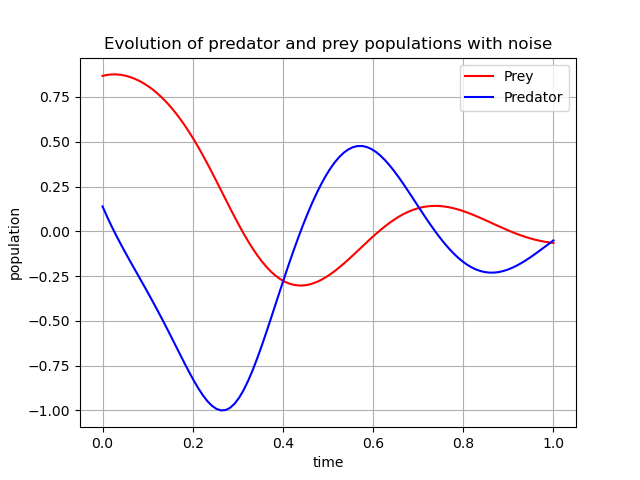
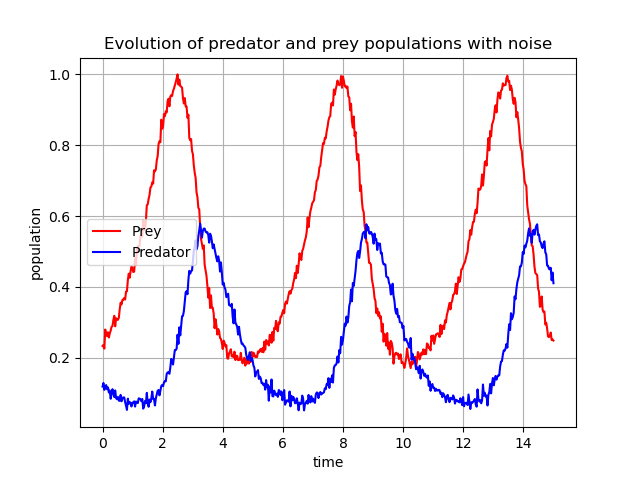
Working LV

diff --git a/lotka_volterra.py b/lotka_volterra.py
@@ -9,6 +9,7 @@ from deepymod.model.func_approx import NN
 from deepymod.model.constraint import LeastSquares
 from deepymod.model.sparse_estimators import Threshold, PDEFIND
 from deepymod.training.sparsity_scheduler import TrainTestPeriodic
+from deepymod.model.library import Library1D
 from scipy.io import loadmat
 
 # custom train loop
@@ -32,33 +33,33 @@ a = 1.
 b = 0.1
 c = 1.5
 d = 0.75
-# def dU_dt(U, t=0):
-#     """ Return the growth rate of predator and prey populations. 
-#     U: [x, y] population vector
-#     """
-#     return np.array([ a*U[0] -   b*U[0]*U[1] ,
-#                   -c*U[1] + d*b*U[0]*U[1] ])
-# t = np.linspace(0, 15,  1000)              # time
-# U0 = np.array([10, 5])                     # initials conditions: 10 prey and 5 predator
-# U = odeint(dU_dt, U0, t)
-
-def dU_dt(U, t):
-    return [U[1], -1*U[1] - 5*np.sin(U[0])]
-U0 = [2.5, 0.4]
-
-t = np.linspace(0, 5,  100)              # time
+def dU_dt(U, t=0):
+    """ Return the growth rate of predator and prey populations. 
+    U: [x, y] population vector
+    """
+    return np.array([ a*U[0] -   b*U[0]*U[1] ,
+                  -c*U[1] + d*b*U[0]*U[1] ])
+t = np.linspace(0, 15,  500)              # time
+U0 = np.array([10, 5])                     # initials conditions: 10 prey and 5 predator
 U = odeint(dU_dt, U0, t)
+
+# def dU_dt(U, t):
+#     return [U[1], -1*U[1] - 5*np.sin(U[0])]
+# U0 = [2.5, 0.4]
+
+# t = np.linspace(0, 5,  100)              # time
+# U = odeint(dU_dt, U0, t)
 
 t_norm = t
 U_norm = U
 # noisify data
-noise = 0.1*np.random.randn(U.shape[0], U.shape[1])
-U_noise = U # + noise
+noise = 0.5*np.random.randn(U.shape[0], U.shape[1])
+U_noise = U + noise
 U_noise_norm = U_noise
 
 normalise = True
 if normalise:
-    t_norm = t/np.max(np.abs(t))
+    # t_norm = t/np.max(np.abs(t))
     U_norm = U/np.max(np.abs(U))
     U_noise_norm = U_noise/np.max(np.abs(U_noise))
 
@@ -84,7 +85,7 @@ plt.savefig("./figs/lotkavolterra_sim_noise.png")
 
 
 # tensors
-number_of_samples = 500
+number_of_samples = 250
 
 idx = np.random.permutation(U_noise.shape[0])
 X = torch.tensor(t_norm.reshape(-1, 1)[idx, :][:number_of_samples], dtype=torch.float32, requires_grad=True)
@@ -95,23 +96,39 @@ train_dataloader = DataLoader(X, batch_size=64, shuffle=True)
 test_dataloader = DataLoader(y, batch_size=64, shuffle=True)
 
 # Configuration of the function approximator: Here the first argument is the number of input and the last argument the number of output layers.
-network = NN(1, [30, 30, 30,30], 2)
+network = NN(1, [20, 20, 20, 20, 20, 20], 2)
+# library = Library1D(poly_order=1, diff_order=0)
 library = LibraryLotkaVoltera()
 
 # Configuration of the sparsity estimator and sparsity scheduler used.
 estimator = Threshold(0.5) 
-sparsity_scheduler = TrainTestPeriodic(periodicity=50, patience=200, delta=1e-5) 
+sparsity_scheduler = TrainTestPeriodic(periodicity=50, patience=500) 
 constraint = LeastSquares() 
 
 model = DeepMoD(network, library, estimator, constraint)
 
 # Defining optimizer
-optimizer = torch.optim.Adam(model.parameters(), betas=(0.99, 0.99), amsgrad=True, lr=1e-3)
+optimizer = torch.optim.Adam(model.parameters(), betas=(0.99, 0.99), amsgrad=True, lr=1e-4)
 
 # logdir
 logpath = r'./logs/lotkavoltera'
 
-train(model, X, y, optimizer,sparsity_scheduler, log_dir=logpath, split=0.8, max_iterations=100000, delta=1e-4, patience=8) 
+train(model, X, y, optimizer, sparsity_scheduler, log_dir=logpath, split=0.8, max_iterations=100000, patience=200, delta=1e-5) 
 
 print(model.sparsity_masks)
 print(model.estimator_coeffs())
+
+# config = {'n_in': 1, 'hidden_dims': [20, 20, 20, 20, 20, 20], 'n_out': 2, 'library_function': library_1D_in, 'library_args':{'poly_order': 1, 'diff_order': 0}}
+y_pred = model(X)[0].detach().numpy()
+
+plt.figure()
+plt.scatter(X.detach().numpy().squeeze(), y_pred[:, 0], marker="*", color="red", label='Predicted Prey')
+plt.scatter(X.detach().numpy().squeeze(), y_pred[:, 1], marker="*", color="blue", label='Predicted Predator')
+plt.plot(t_norm, U_noise_norm[:, 0], 'r-', label='True Prey')
+plt.plot(t_norm, U_noise_norm[:, 1]  , 'b-', label='True Predator')
+plt.grid()
+plt.legend(loc='best')
+plt.xlabel('time')
+plt.ylabel('population')
+plt.title('Evolution of predator and prey populations with noise')
+plt.savefig("./figs/lotkavolterra_pred_noise.png")

diff --git a/library.py b/library.py
@@ -26,7 +26,7 @@ class LibraryLotkaVoltera(Library):
         C = torch.ones_like(prediction[:,0]).view(samples, -1)
         u = prediction[:,0].view(samples, -1)
         v = prediction[:,1].view(samples, -1)
-        theta = torch.cat((C, u, v, torch.sin(u)), dim=1)
+        theta = torch.cat((C, u, v, torch.mul(u, v)), dim=1)
 
         # Construct a list of time_derivatives 
         for output in torch.arange(prediction.shape[1]):

diff --git a/README.md b/README.md
@@ -7,3 +7,10 @@ This project utilises the [DeepMoD library](https://phimal.github.io/DeePyMoD/)
 $ pip intsall deepymod
 ```
 
+### Lotka Voltera
+
+The Lotka–Volterra equations, also known as the predator–prey equations, are a pair of first-order nonlinear differential equations, frequently used to describe the dynamics of biological systems in which two species interact, one as a predator and the other as prey [Wikipedia](https://en.wikipedia.org/wiki/Lotka%E2%80%93Volterra_equations)
+
+![lotka-voltera-equations](./figs/LV_eq.png)
+
+Now let's imagine that we do not know the specific dynamics of such a model:
